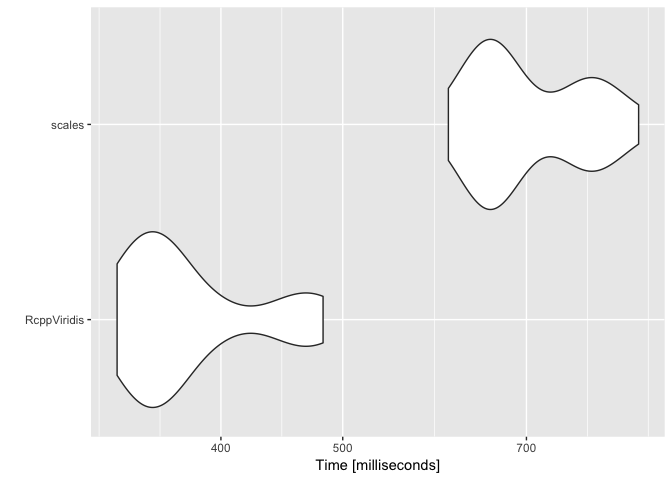
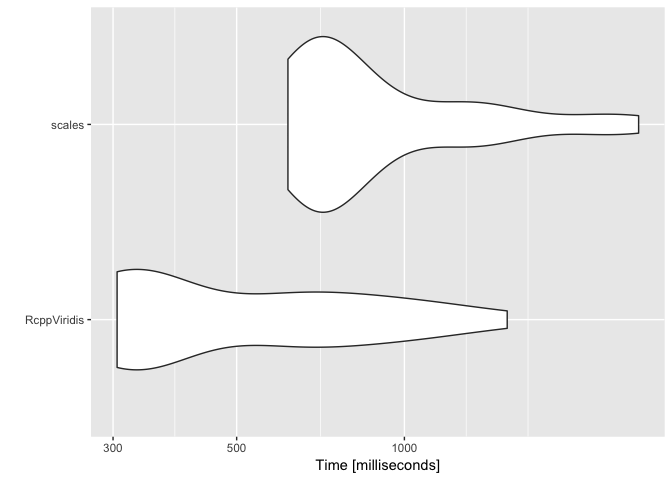
readme

diff --git a/README.md b/README.md
@@ -119,6 +119,23 @@ That’s better\!
 
 -----
 
+## Do I have to use the in-built palettes?
+
+No, you can use your own specified as a matrix of red, gree, blue
+columns in the range \[0,1\]
+
+``` r
+n <- 100
+m <- grDevices::colorRamp(c("red", "green"))( (0:n)/n ) / 255
+df <- data.frame(a = 10, x = 1:n)
+df$col <- colour_values(df$x, palette = m)
+barplot(height = df$a, col = df$col, border = NA, space = 0)
+```
+
+<img src="man/figures/README-unnamed-chunk-6-1.png" width="100%" height="200" />
+
+-----
+
 ### What’s the performance like?
 
 **1 million numeric values**
@@ -139,14 +156,14 @@ m <- microbenchmark(
 )
 m
 # Unit: milliseconds
-#         expr      min       lq     mean   median       uq      max neval
-#  RcppViridis 306.7244 322.5769 336.2357 327.3333 346.0465 389.6694    25
-#       scales 632.1039 650.4934 704.5773 689.9535 743.1749 819.2093    25
+#         expr      min       lq     mean   median        uq      max neval
+#  RcppViridis 305.0620 325.6746 579.6459 346.7598  696.9596 1529.404    25
+#       scales 618.0078 687.9432 983.3619 746.2501 1074.3857 2632.472    25
 
 autoplot(m)
 ```
 
-<img src="man/figures/README-unnamed-chunk-6-1.png" width="100%" height="400" />
+<img src="man/figures/README-unnamed-chunk-7-1.png" width="100%" height="400" />
 
 **1 million characters (26 unique values)**
 
@@ -167,11 +184,11 @@ m <- microbenchmark(
 )
 m
 # Unit: milliseconds
-#         expr      min       lq     mean   median       uq      max neval
-#  RcppViridis 330.7300 343.2935 378.9668 362.3715 391.2799 482.3071    25
-#       scales 606.7393 647.2586 705.9739 669.4606 778.1346 859.6777    25
+#         expr      min       lq     mean    median        uq      max neval
+#  RcppViridis 409.3059 428.7086  615.074  447.2256  534.3492 2411.654    25
+#       scales 827.8212 868.1436 1197.380 1083.3522 1364.2112 2602.235    25
 
 autoplot(m)
 ```
 
-<img src="man/figures/README-unnamed-chunk-7-1.png" width="100%" height="400" />
+<img src="man/figures/README-unnamed-chunk-8-1.png" width="100%" height="400" />
